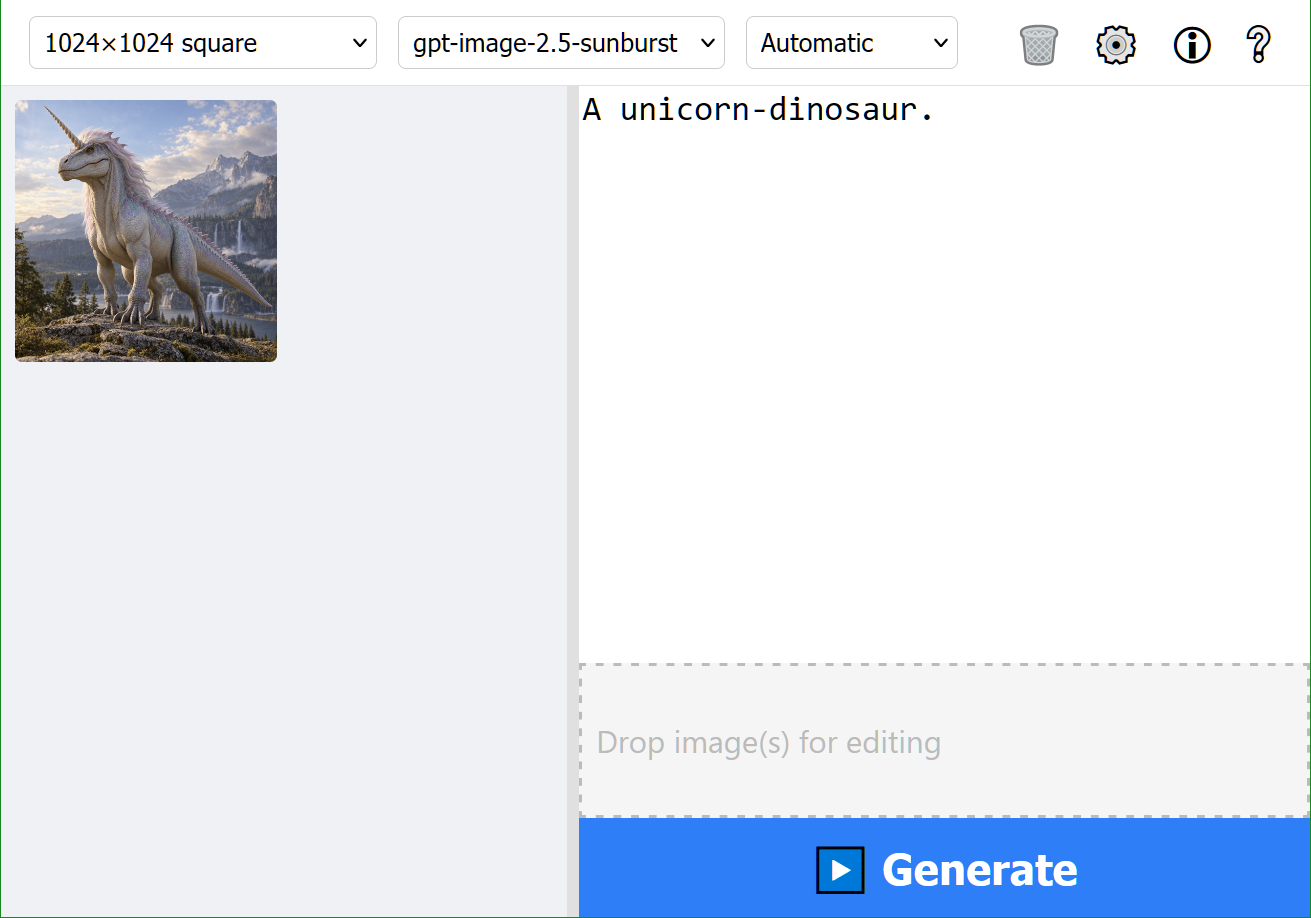
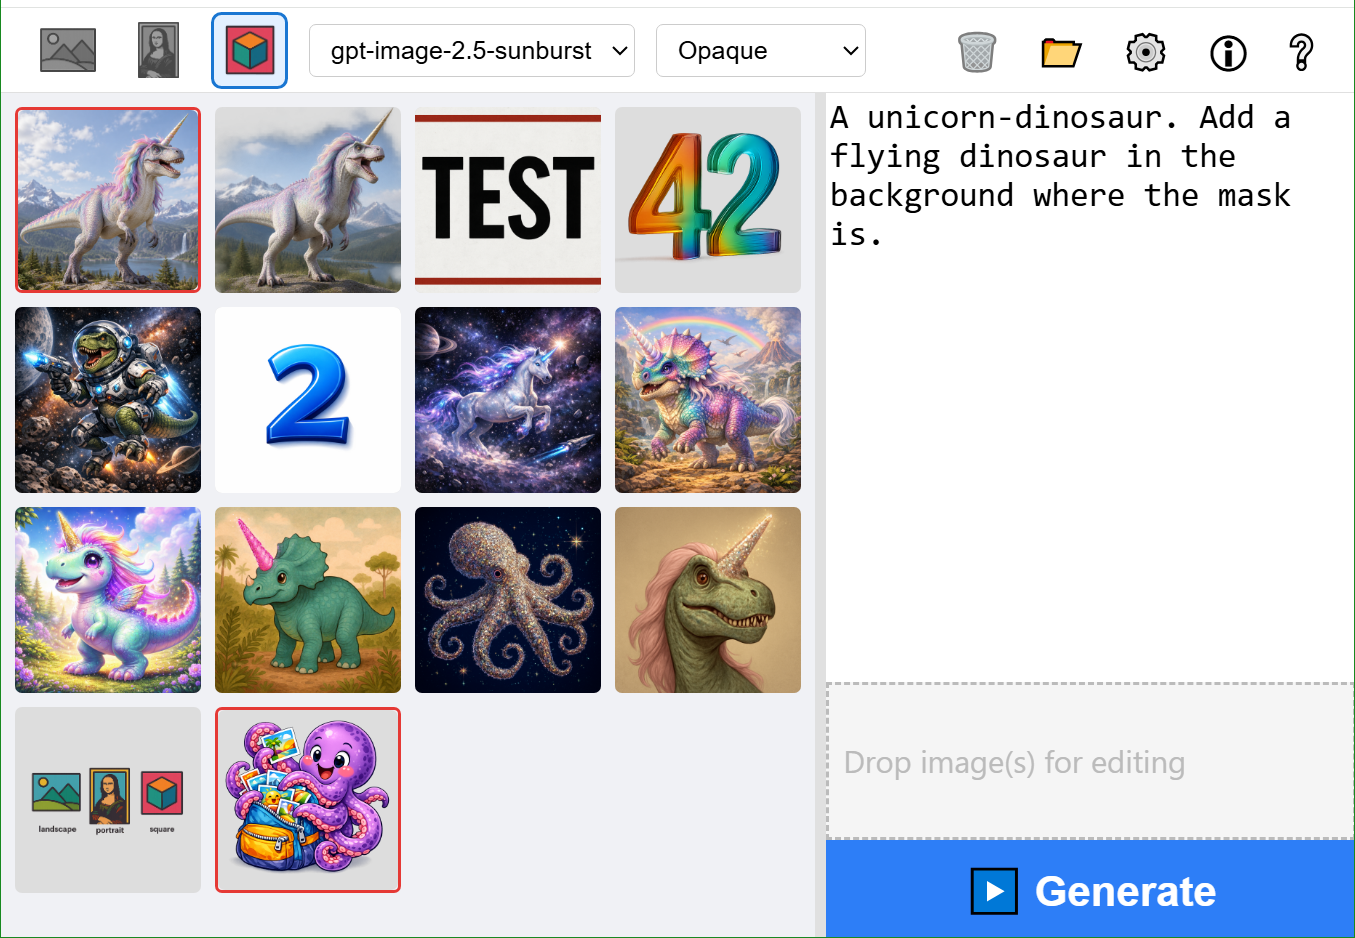
code: Screenshots — Update and remove outdated images

diff --git a/Tasks/Gallery_import_button.md b/Tasks/Gallery_import_button.md
@@ -20,4 +20,4 @@ Drag and drop between apps is hard for some users; the system's open dialog is t
 - [x] The 📂 button in the menu bar.
 - [x] Node checks for the limits and the threshold, run by `tools/check/check.sh`.
 - [x] README, User Manual and Technical Manual updated.
-- [ ] Screenshots in `screenshots/` retaken.
+- [x] Screenshots in `screenshots/` retaken.
